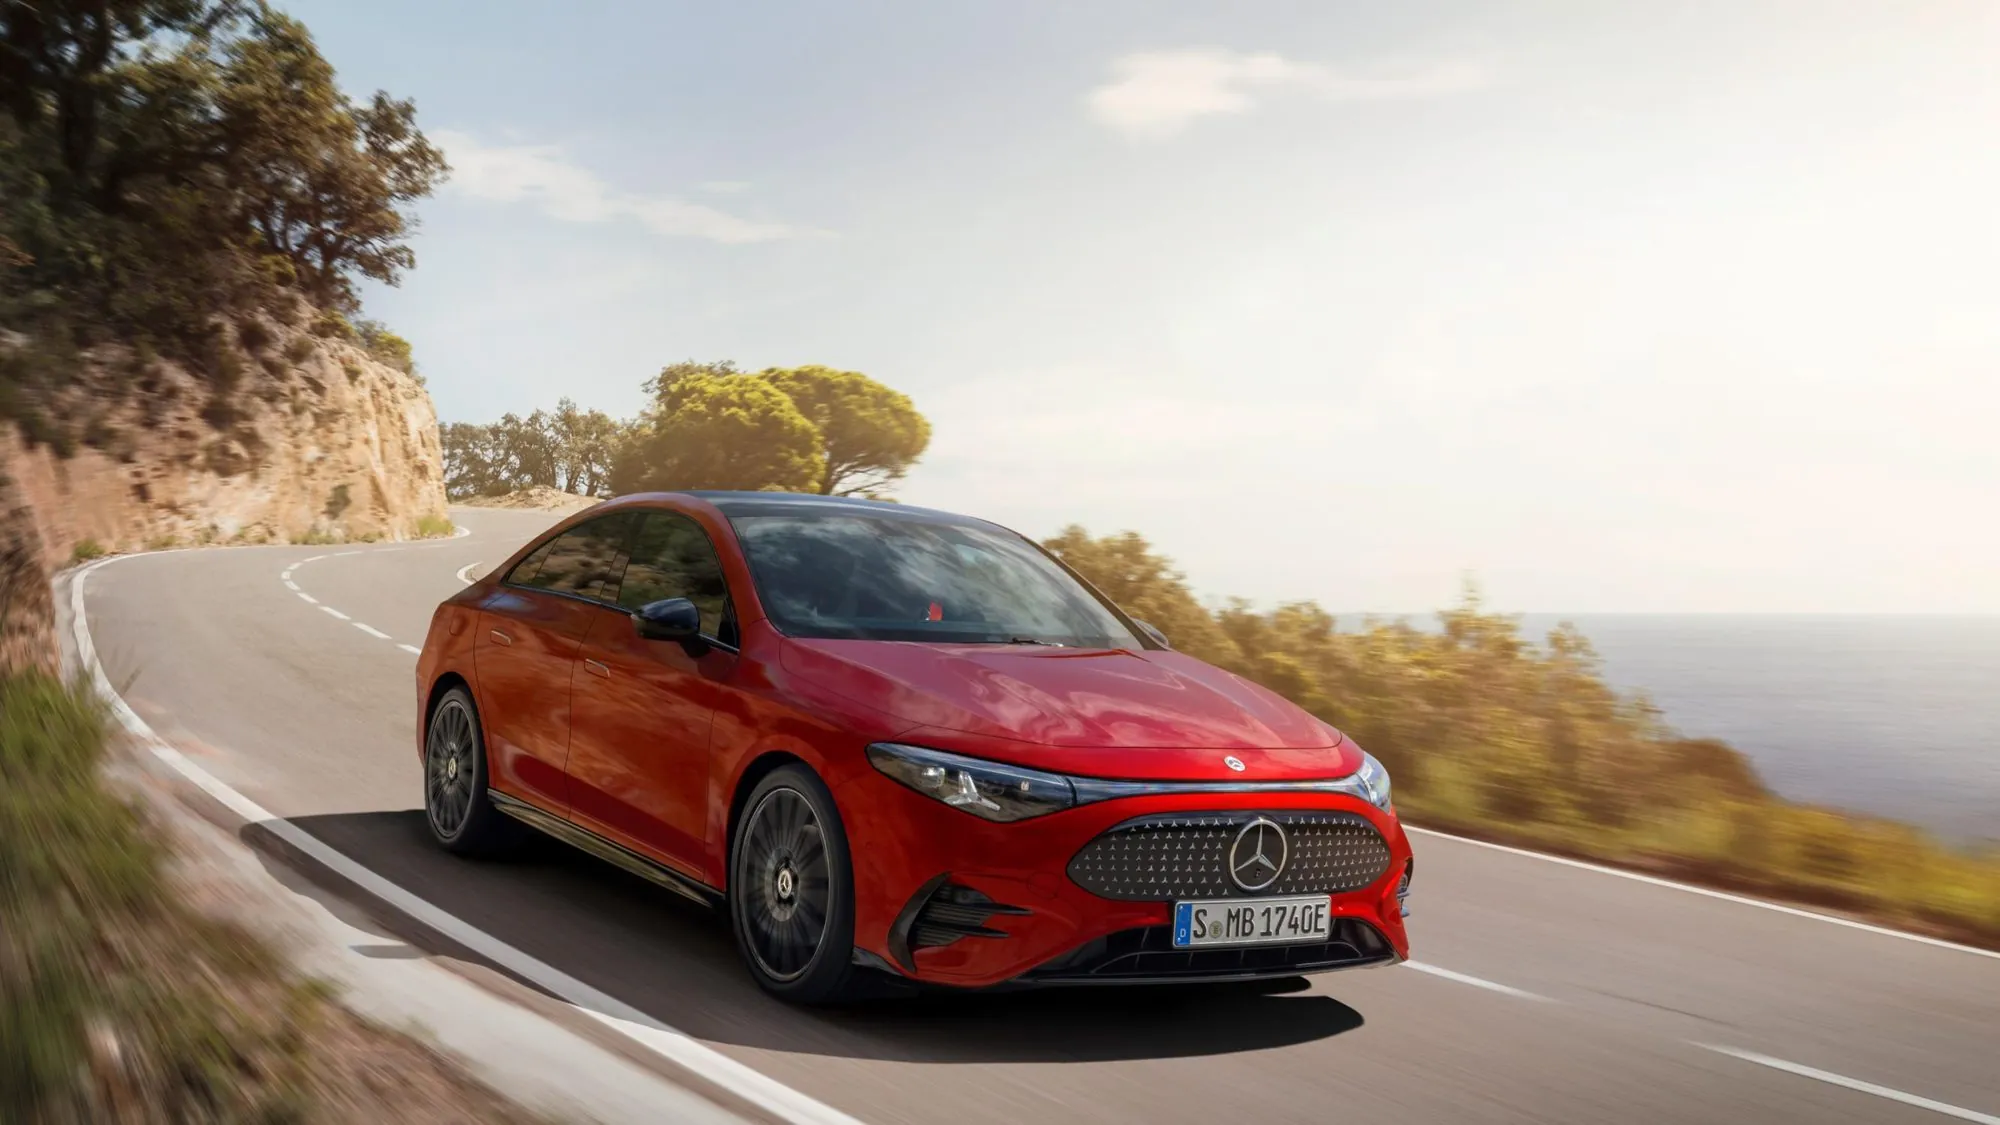
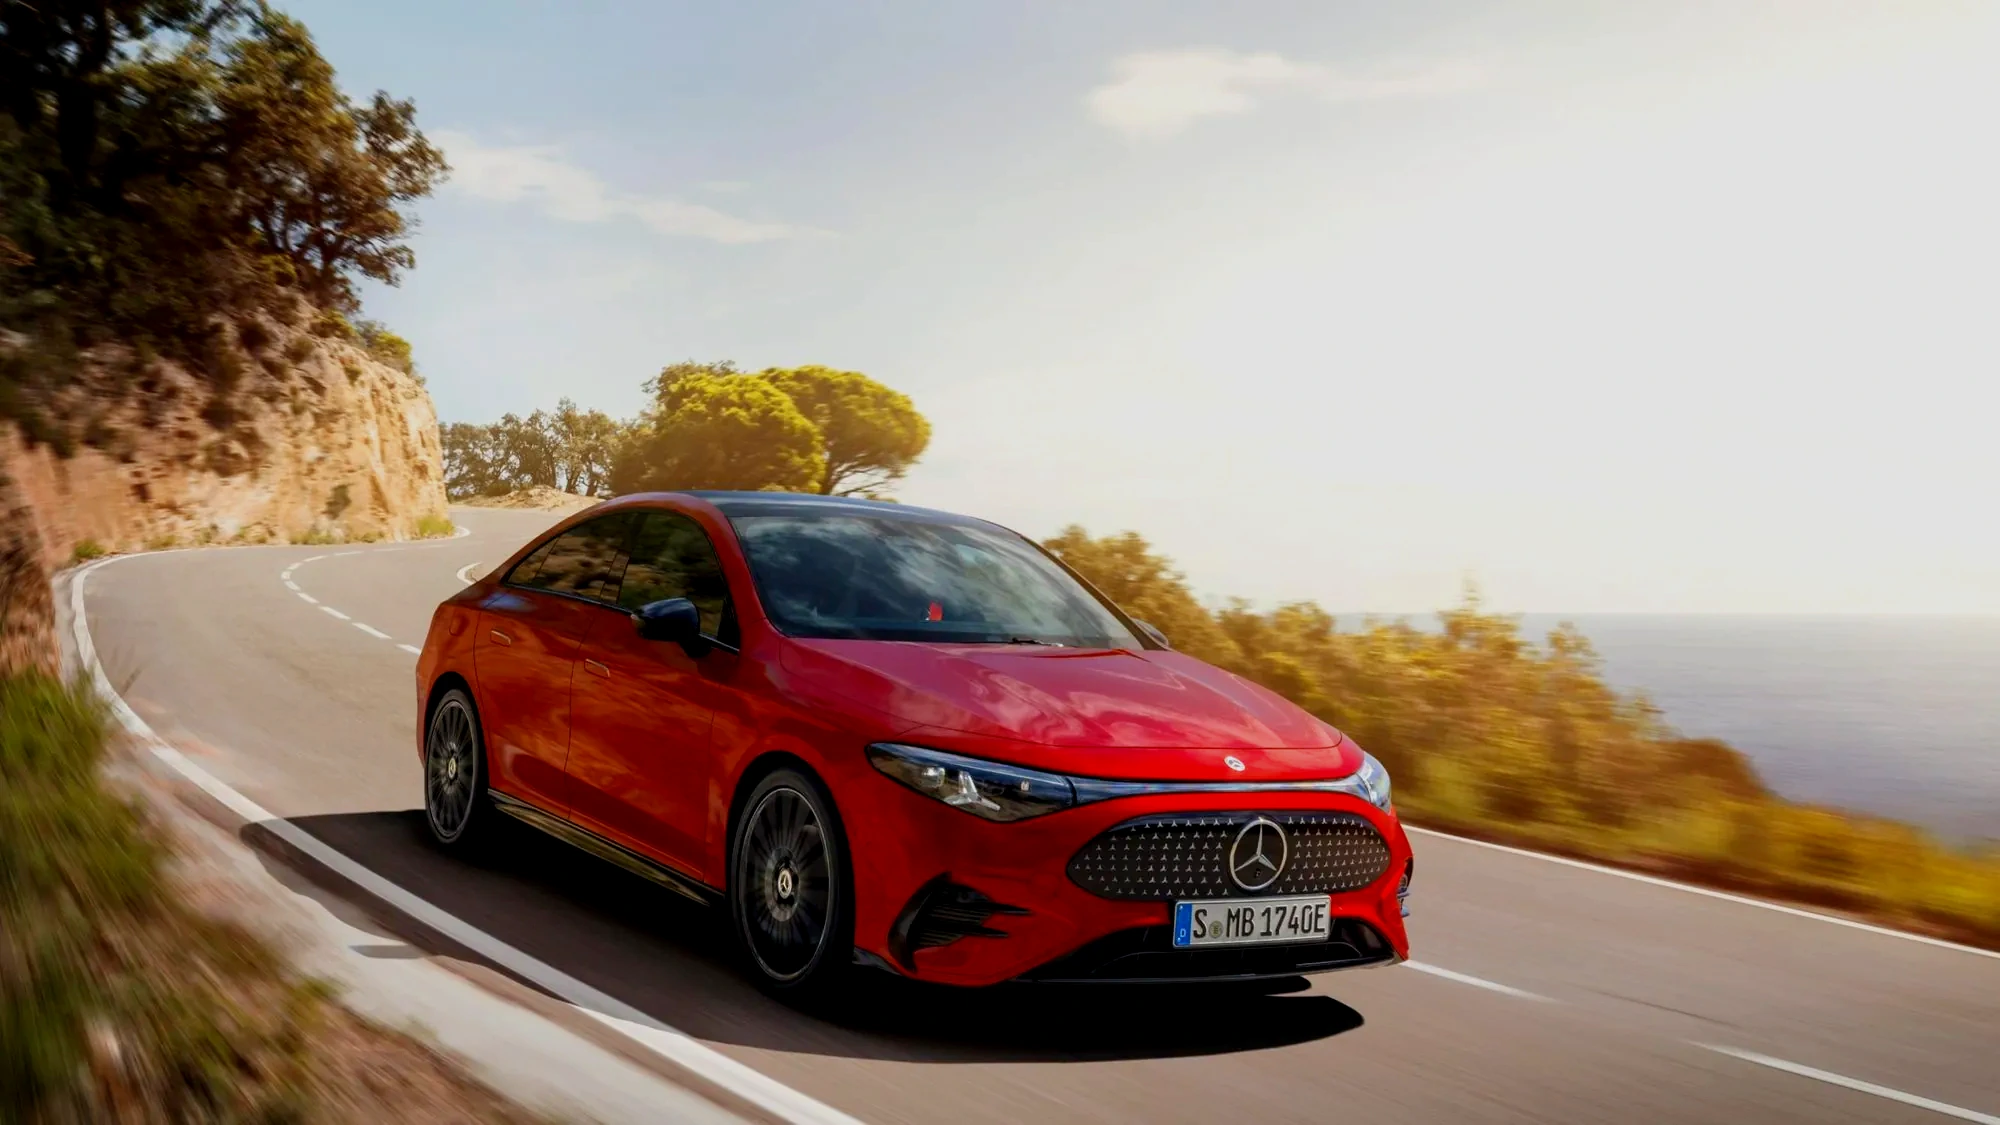
CLA C174: lineup 3+2 layout (CLA 200 row1, CLA 250+ row2), enhance hero image contrast/visibility, adjust hero scrim

diff --git a/MY27_CLA_C174_electric.html b/MY27_CLA_C174_electric.html
@@ -42,7 +42,7 @@ img{display:block;max-width:100%;}
 /* hero */
 .hero{position:relative;height:86vh;min-height:560px;display:flex;align-items:center;overflow:hidden;background:radial-gradient(ellipse at 60% 40%,#1a1f24,#050607);}
 .hero-bg{position:absolute;inset:0;background:url('assets/glcev/hero_silver.jpg') center/cover no-repeat;opacity:.92;will-change:transform;}
-.hero-scrim{position:absolute;inset:0;background:linear-gradient(90deg,rgba(5,6,7,.92) 0%,rgba(5,6,7,.5) 44%,transparent 76%),linear-gradient(0deg,rgba(5,6,7,.9),transparent 45%);}
+.hero-scrim{position:absolute;inset:0;background:linear-gradient(90deg,rgba(5,6,7,.9) 0%,rgba(5,6,7,.42) 40%,transparent 68%),linear-gradient(0deg,rgba(5,6,7,.72),transparent 38%);}
 .hero-inner{position:relative;z-index:3;padding:0 clamp(24px,6vw,90px);max-width:1000px;}
 .hero-eyebrow{font-family:'MBK CorpoA',serif;letter-spacing:6px;font-size:.7rem;color:var(--teal);text-transform:uppercase;margin-bottom:18px;opacity:0;animation:up .9s .1s forwards;}
 .hero-h1{font-family:'MBK CorpoA Cond',serif;font-size:clamp(3rem,7.5vw,6rem);line-height:.98;color:var(--white);margin-bottom:14px;opacity:0;animation:up .9s .25s forwards;}
@@ -179,7 +179,7 @@ table.tbl td{padding:12px 13px;border-top:1px solid var(--line);}
 .matrix td.yes{color:var(--teal);font-weight:800;font-size:1.05rem;background:rgba(47,184,166,.13);} .matrix td.no{color:#31343a;} .matrix tr.optrow td.mk{color:#fff;} .matrix tr.optrow td{border-top:1px solid rgba(47,184,166,.12);} .matrix tr.optrow:hover td{background:rgba(47,184,166,.07);} .matrix tr.optrow td.yes:hover{background:rgba(47,184,166,.2);}
 table.tbl tr:hover td{background:rgba(255,255,255,.02);}
 /* lineup */
-.lu-grid{display:grid;grid-template-columns:repeat(4,1fr);gap:16px;margin-top:24px;}
+.lu-grid{display:grid;grid-template-columns:repeat(3,1fr);gap:16px;margin-top:24px;}
 .lu-card{background:var(--card);border:1px solid var(--line);border-radius:16px;overflow:hidden;transition:.4s;cursor:zoom-in;}
 .lu-card:hover{transform:translateY(-6px);box-shadow:0 20px 50px rgba(0,0,0,.5);border-color:rgba(47,184,166,.4);}
 .lu-card.standard{border-top:3px solid var(--silver);} .lu-card.amg{border-top:3px solid var(--teal);} .lu-card.amgplus{border-top:3px solid var(--gold);} .lu-card.top{border-top:3px solid #c0392b;}
@@ -494,7 +494,7 @@ table.omx tr:hover td.k{background:#1a1e26;}
 </nav>
 
 <header class="hero">
-  <div class="hero-bg" id="heroBg" style="background-image:url('assets/cla_c174/hero_amg_road.webp');"></div><div class="hero-scrim"></div>
+  <div class="hero-bg" id="heroBg" style="background-image:url('assets/cla_c174/hero_amg_road.webp');opacity:1;background-position:62% 58%;"></div><div class="hero-scrim"></div>
   <div class="hero-inner">
     <div class="hero-eyebrow">MY27 · The all-new electric CLA · C174</div>
     <h1 class="hero-h1">The all-new<br>electric <span>CLA</span></h1>
@@ -580,7 +580,7 @@ table.omx tr:hover td.k{background:#1a1e26;}
 <section id="lineup"><div class="wrap">
   <div class="eyebrow reveal">Part 3 · Line-up</div><h2 class="stitle reveal">국내 출시 5개 트림</h2>
   <p class="sdesc reveal">CLA 200 electric은 Essential · Advanced · AMG Line 3트림, CLA 250+ electric은 기본 · AMG Line 2트림으로 출시됩니다. AMG Line은 <b style="color:var(--gold)">Launch Edition</b>으로 운영됩니다.</p>
-  <div class="lu-grid reveal" style="grid-template-columns:repeat(auto-fill,minmax(230px,1fr))">
+  <div class="lu-grid reveal">
     <div class="lu-card standard" data-lb="assets/cla_c174/ext_ess_front.webp" data-cap="CLA 200 electric Essential">
       <div class="lu-img"><span class="zoomhint">⤢</span><span class="lu-dline">PROGRESSIVE</span><img src="assets/cla_c174/ext_ess_front.webp" alt="CLA 200 electric Essential" loading="lazy"></div>
       <div class="lu-body"><div class="lu-name">CLA 200 electric<br>Essential</div>
